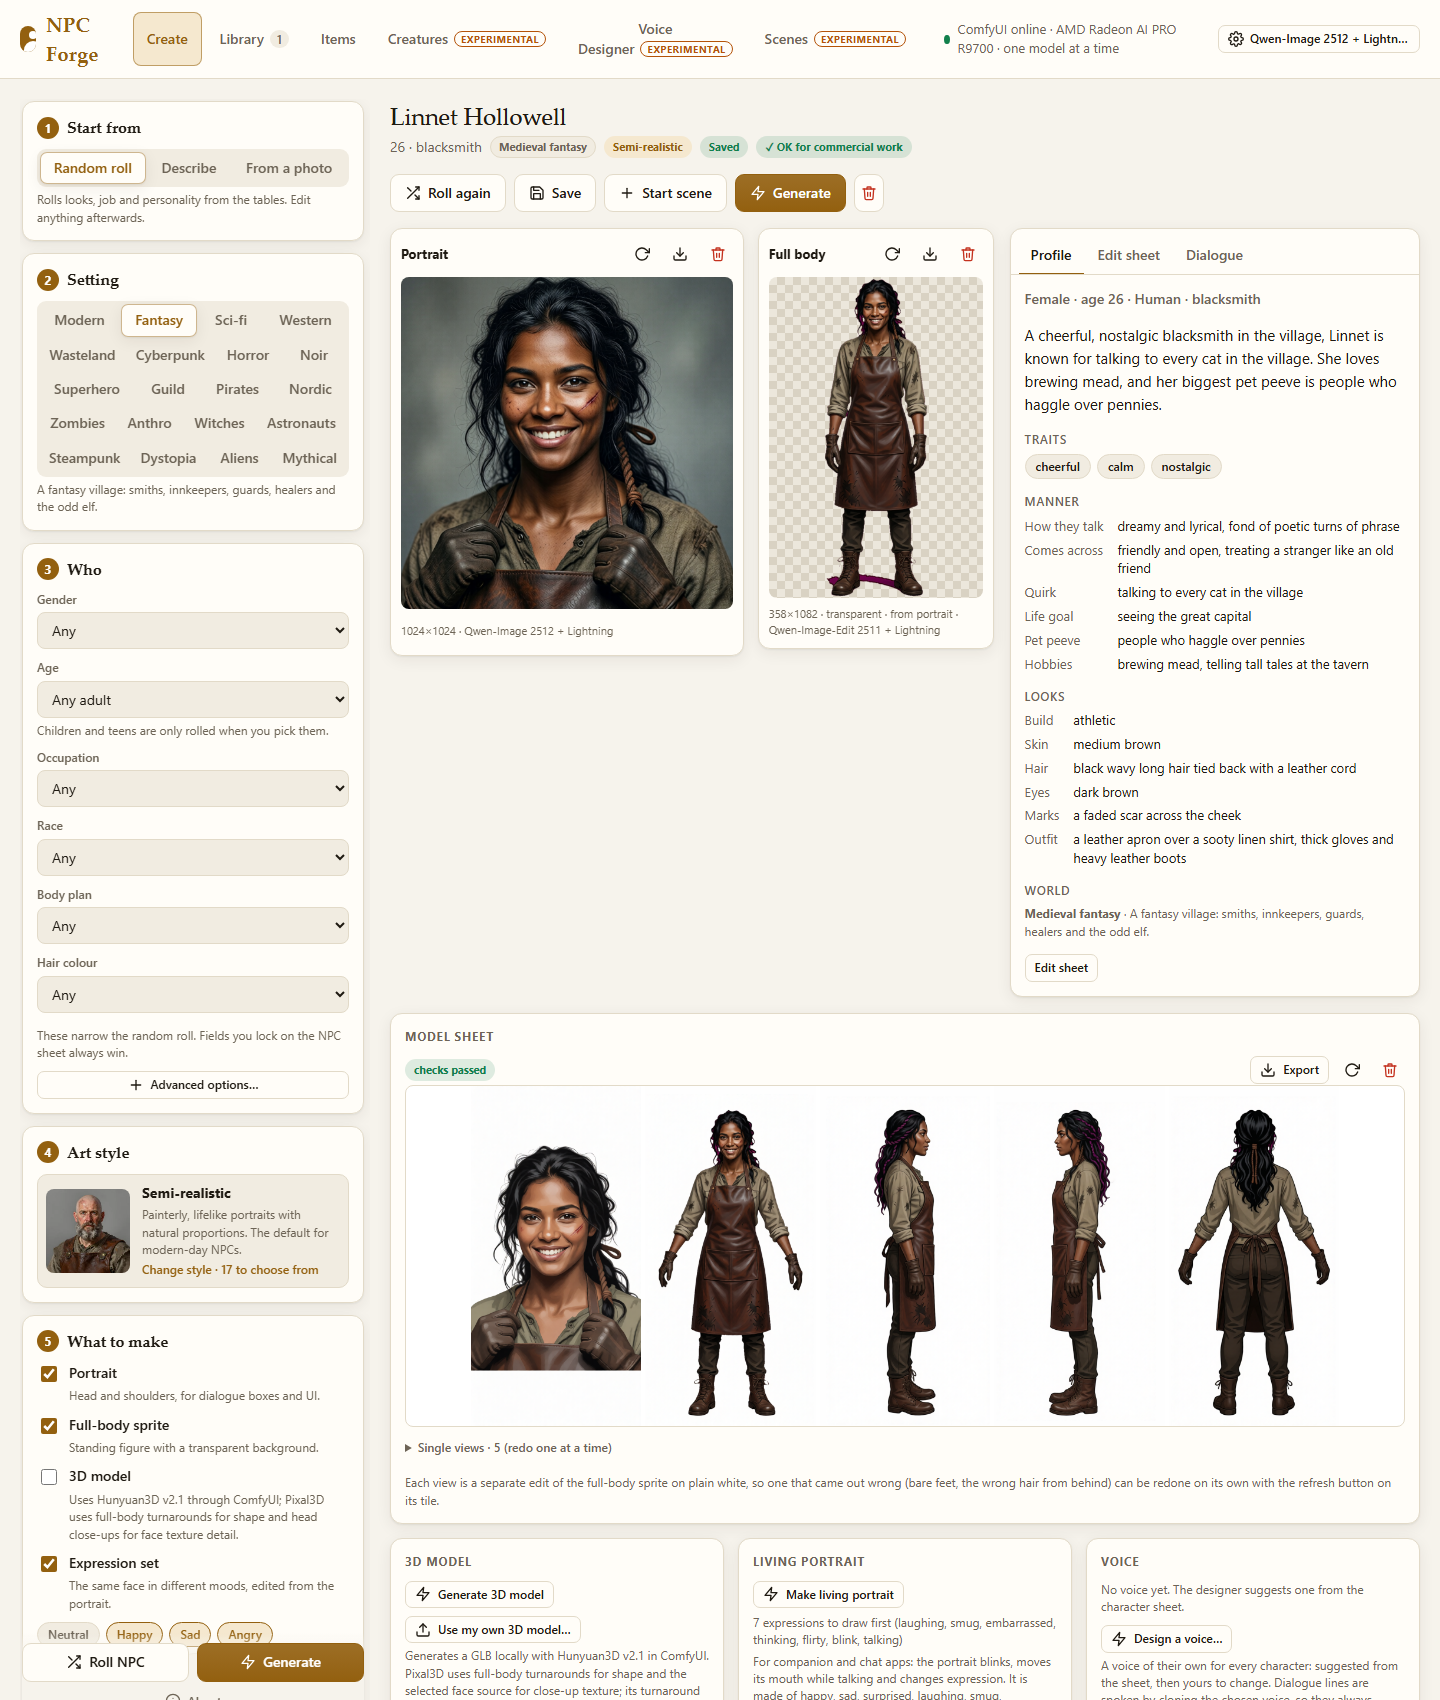
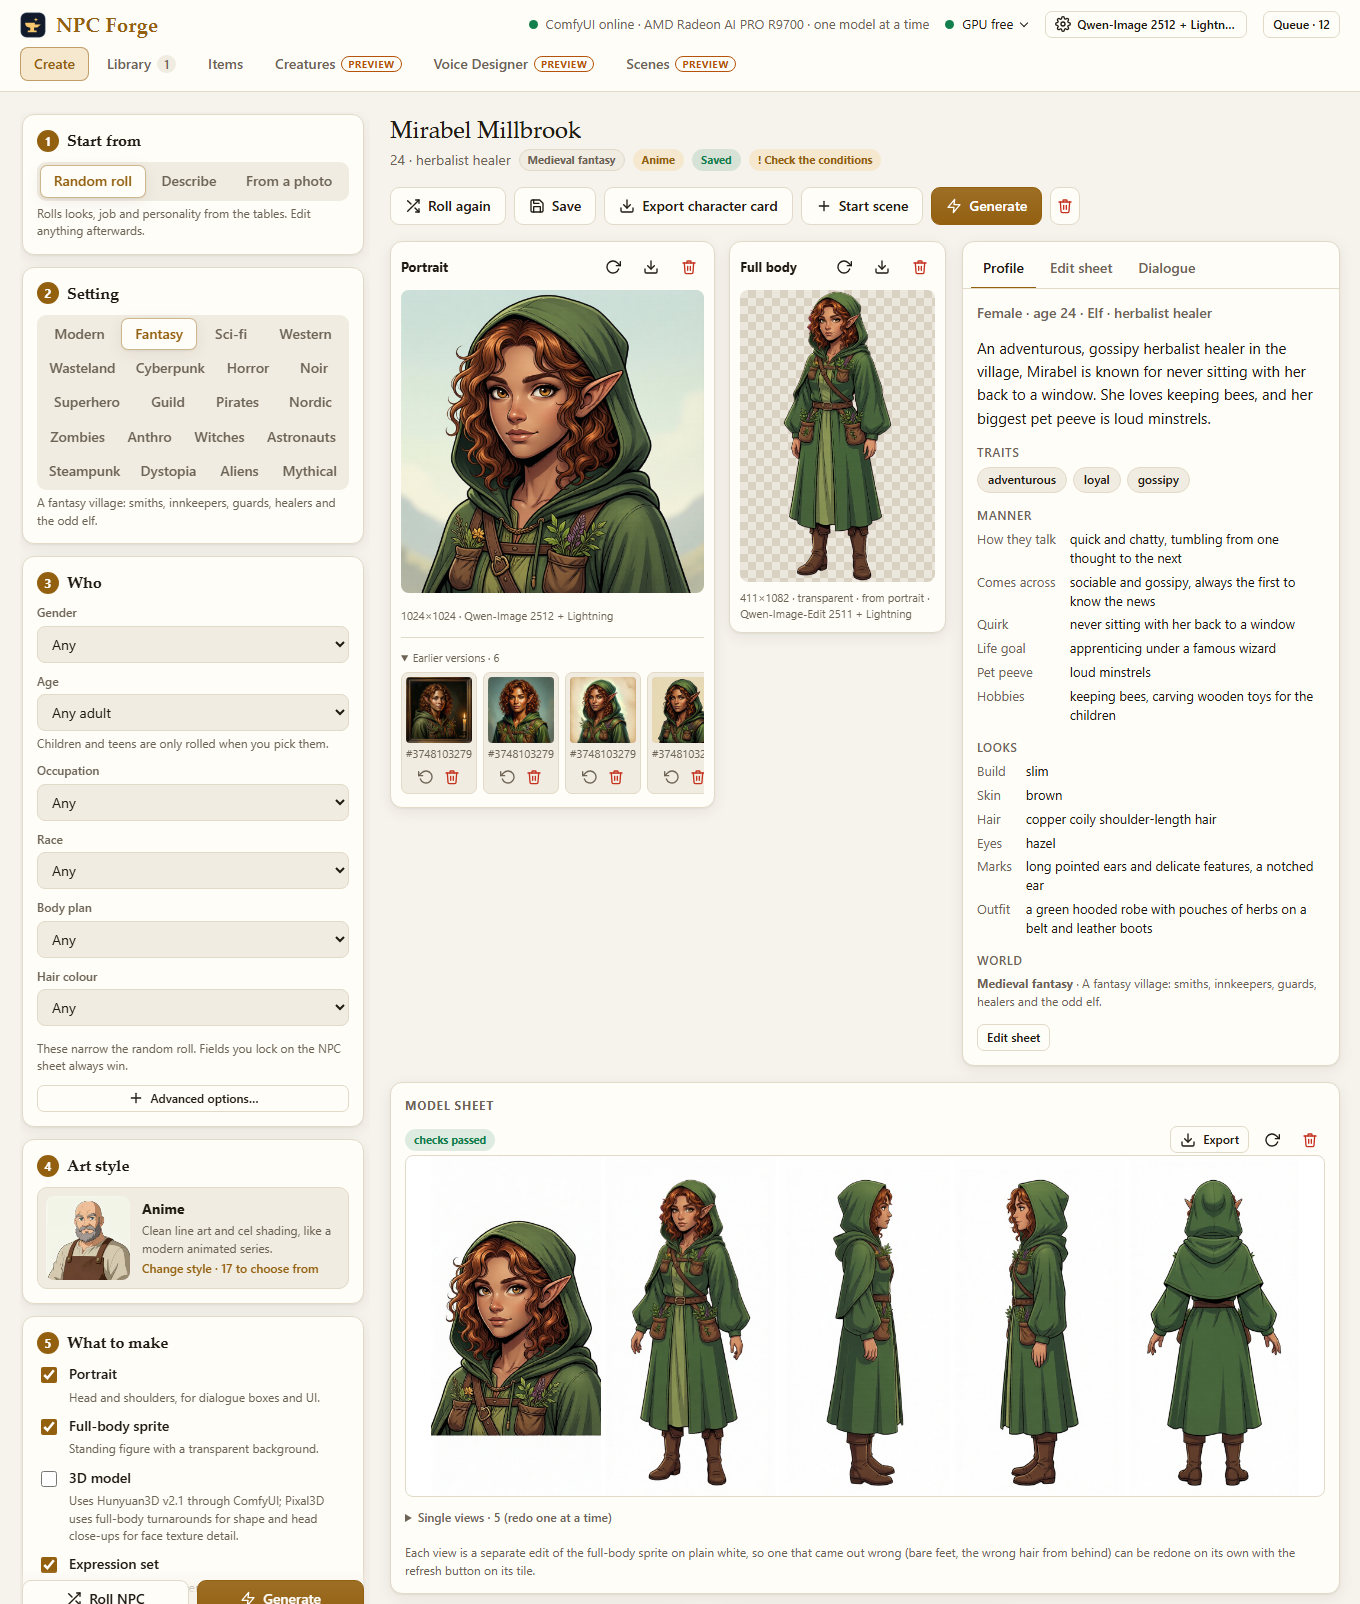
Add a gallery, and make its grid of art styles the README's top picture
Step 11. docs/gallery.md shows one rolled character, Mirabel Millbrook
(an elf herbalist; nobody real, no photo), made by NPC Forge on one PC
through its HTTP API, with the model that made each picture and how
long it took:

- all 17 art styles (Qwen-Image 2512, same seed), styles.jpg, which is
  now the README's top picture in place of the old Create page shot;
- the living portrait blinking, talking and smiling (Qwen-Image-Edit
  2511), living.gif;
- the Pixal3D model from the model sheet, turning, rendered in Blender
  from the GLB as saved, turntable.gif;
- the 16-bit pixel walk in four directions (Qwen-Image-Edit 2511),
  walk.gif, from the strips of the Godot export;
- that export (Godot 4 preset, 128 px, 48 colours) in a top-down Godot
  4.7 scene, walking a path round a herb garden, recorded with Godot's
  Movie Maker, godot.gif.

docs/images/character.png is a new screenshot of the same character in
the Library (Mage-Flow made the old one); create.png is gone (only the
README used it). NOTICE.md's sample-images paragraph names the models
that made the new pictures; no Mage-Flow picture is left in the
repository. The docs index lists the gallery.

The page says what did not work the first time: the anime walk (the
robe turned into leggings, poses missed), a pixel re-roll that came out
worse than the first walk (which is shown, with Forge's side-view glide
flag explained), one ComfyUI stall that Retry finished, the living
[…]

Changed region(s): [[0.0, 0.0, 0.9882, 1.0], [0.2779, 0.5923, 0.3397, 0.6546]]

diff --git a/docs/gallery.md b/docs/gallery.md
@@ -1,0 +1,88 @@
+# Gallery
+
+Everything on this page was made by NPC Forge on one PC (an AMD Radeon AI PRO R9700 with 32 GB), from one rolled
+character: nobody real, and no picture drawn from a photo. Each picture says which model made it. All of them use models
+whose licences allow commercial use, except the 3D model, whose licence adds conditions ([licences.md](licences.md)).
+
+The pictures here are made smaller for this page, and they do not carry the AI labels that Forge writes into its own files
+([responsible-use.md](responsible-use.md#label-what-you-make)), so this page says it instead: they were all made with AI
+models.
+
+## One character in every art style
+
+![Mirabel Millbrook, a rolled elf herbalist, drawn in all 17 art styles](images/gallery/styles.jpg)
+
+Mirabel Millbrook was rolled in the fantasy setting: an elf herbalist healer of 24, with copper coily hair and a green
+hooded robe with pouches of herbs. Her portrait was then drawn once in each of the 17 styles, with the same seed, by
+**Qwen-Image 2512** with its Lightning LoRA (Apache-2.0). Each took about 15 seconds once the model was loaded.
+
+## A living portrait
+
+![Mirabel's living portrait: she blinks, talks and smiles](images/gallery/living.gif)
+
+The living portrait is the portrait with only the eyes or the mouth changed, so nothing else flickers. Its frames are
+edits of the anime portrait by **Qwen-Image-Edit 2511** with its Lightning LoRA (Apache-2.0): ten expressions in under six
+minutes. A chat app shows them while a line plays; here the mouth follows a made-up rhythm, because a GIF has no sound.
+See [the living portrait](characters.md#living-portrait).
+
+## A model sheet and a 3D model
+
+![Mirabel's 3D model turning, rendered in Blender](images/gallery/turntable.gif)
+
+The model sheet (her front, both sides and her back, each an edit of the full-body sprite by Qwen-Image-Edit 2511) took
+under two minutes. **Pixal3D** made the textured 3D model from those views in 26 minutes, at its Medium setting. Pixal3D
+is MIT, but it reads Meta's DINOv3, whose licence adds conditions, so Forge rates the model "Allowed, with conditions".
+The turn was rendered in Blender from the GLB as Forge saved it, without any clean-up.
+
+## A walk cycle
+
+![Mirabel walking in four directions in 16-bit pixel art](images/gallery/walk.gif)
+
+The walk is in 16-bit pixel art. Her portrait and full-body sprite were drawn again in that style, then a four-frame walk
+facing down, right and up, every frame an edit of the sprite by **Qwen-Image-Edit 2511** (Apache-2.0); the left walk is
+the right one mirrored. The walk took six minutes. The GIF shows the frames of the Godot export below (128 pixels, shown
+twice the size) at the clip's own five frames a second.
+
+Forge flagged the side view, and it is right: in pixel art a walk is drawn from words rather than from a posed figure,
+and her feet hardly come together between steps (stride contrast 1.1; Forge flags anything under 1.35), so seen from the side
+she glides a little. [Animation](animation.md#which-styles-get-the-puppet) explains why pixel art is drawn from words.
+
+## In Godot
+
+![The exported walk in a Godot 4.7 scene: Mirabel walks a path round a herb garden](images/gallery/godot.gif)
+
+The same walk, exported with the **Godot 4** preset (a PNG strip for each direction and a SpriteFrames `.tres` with
+`walk_down`, `walk_left`, `walk_right` and `walk_up`), dropped into an empty Godot 4.7 project. The only code is a
+short script that walks her round the path and plays the animation that faces the way she goes, and a second one that
+draws the garden. Godot's Movie Maker recorded it at ten frames a second.
+
+The export is 128 pixels with 48 colours (`colors=48` on the export link). At the default 24 her skin came out olive:
+pixel-art frames share one palette for the whole clip, so the colours never shimmer, and her green robe took most of it.
+
+## The page
+
+![Mirabel in NPC Forge: portrait, full-body sprite, data sheet and model sheet](images/character.png)
+
+Mirabel open in the Library, in the anime style the living portrait and the 3D model were made from: the portrait by
+Qwen-Image 2512, the sprite and the model sheet by Qwen-Image-Edit 2511.
+
+## How these were made
+
+- A copy of NPC Forge with a library of its own, on the same PC as ComfyUI 0.37, through the [HTTP API](api.md): one
+  saved character, then one request for each picture or set, as the page sends them.
+- One model on the card at a time, standard quality throughout. No picture was touched up afterwards; FFmpeg put the GIFs
+  together and Blender rendered the turn.
+- What did not work the first time:
+  - The walk was first drawn in the anime style, from a posed figure. In the stride frames her robe turned into leggings,
+    and Forge flagged frames that missed their pose, so the walk was drawn again in pixel art.
+  - The pixel walk was re-rolled once, to try for a better side view. The re-roll came out worse (the front view's legs
+    barely moved, and bits of the background stayed at her feet), so the first walk is the one shown.
+  - Once, ComfyUI stopped answering while a reference view was drawing. Retry ran the job again from that step and kept
+    everything already drawn.
+  - The living portrait's blink and talking frames first showed nothing. Qwen-Image-Edit 2511 returns an expression as the
+    middle 992 pixels of the 1,024-pixel portrait, and Forge stretched it back, which moved her eyes and mouth by up to
+    16 pixels. Forge now puts such a frame back in the middle; the living portrait was assembled again from the same
+    edits, with nothing drawn again.
+  - The export's default palette, as above.
+
+[Back to the documentation](README.md)

diff --git a/README.md b/README.md
@@ -11,10 +11,13 @@ models running in your own ComfyUI. There is no cloud and nothing to train.
 > [NPC Forge](https://github.com/Fel101/fels-npc-forge) makes characters for games, and [Altera](https://github.com/Fel101/Altera)
 > lets you talk with them. Each one also works on its own.
 
-[Quick start](#quick-start) · [What your PC can make](#what-your-pc-can-make) · [Documentation](docs/README.md) ·
-[Responsible use](docs/responsible-use.md)
+[Quick start](#quick-start) · [What your PC can make](#what-your-pc-can-make) · [Gallery](docs/gallery.md) ·
+[Documentation](docs/README.md) · [Responsible use](docs/responsible-use.md)
 
-![The Create page: settings, who, art style and what to make](docs/images/create.png)
+![One rolled character, Mirabel Millbrook, drawn in all 17 art styles](docs/images/gallery/styles.jpg)
+
+*One rolled character in all 17 art styles, drawn by Qwen-Image 2512 (Apache-2.0) on one PC. The
+[gallery](docs/gallery.md) has her walk cycle, living portrait, 3D model and a Godot scene, with the model that made each.*
 
 ## What it makes
 
@@ -32,7 +35,7 @@ models running in your own ComfyUI. There is no cloud and nothing to train.
 Voice Lab), **Scenes** (two to six characters acting out a scene) and **Creatures** (non-humanoid creatures for a game). They
 work, but have been checked on fewer characters than the rest: see [what has been checked](docs/status.md).
 
-![A finished character: portrait, full-body sprite, data sheet and model sheet](docs/images/character.png)
+![A finished character in NPC Forge: portrait, full-body sprite, data sheet and model sheet](docs/images/character.png)
 
 ## What your PC can make
 

diff --git a/NOTICE.md b/NOTICE.md
@@ -166,9 +166,12 @@ The Trellis2 generator also uses two small ComfyUI nodes of NPC Forge's own (`np
 ## Sample images
 
 The art-style samples in `web/styles/` (one invented character drawn in every style, shown by the style picker) were made
-with **Z-Image Turbo** (Apache-2.0) through NPC Forge's own portrait prompts, not with Mage-Flow. Any other sample images in
-this repository were generated with Mage-Flow; they are examples of the tool's output and carry the uncertainty described
-above. Do not treat any of them as licensed artwork.
+with **Z-Image Turbo** (Apache-2.0) through NPC Forge's own portrait prompts, not with Mage-Flow. The pictures in
+`docs/images/gallery/` and `docs/images/character.png` (one rolled character, made by NPC Forge for
+[the gallery](docs/gallery.md)) were drawn with **Qwen-Image 2512** and edited with **Qwen-Image-Edit 2511**, both
+Apache-2.0 with their Lightning LoRAs; the turning 3D model was made by **Pixal3D** (MIT), which reads Meta's DINOv3, whose
+licence adds conditions. The gallery says which model made each picture. They are examples of the tool's output, made with
+AI models; do not treat any of them as licensed artwork.
 
 ## 3D preview
 

diff --git a/docs/README.md b/docs/README.md
@@ -68,6 +68,8 @@ Voices come from [Fel's Voice Lab](https://github.com/Fel101/fels-voice-lab).
 
 ## What was measured
 
+- [Gallery](gallery.md): one rolled character in every art style, a living portrait, a 3D model, a walk cycle
+  and a Godot scene, with the model that made each and how long it took.
 - [Status](status.md): what has and has not been checked, and the known limits.
 - [Which models may be used for work you sell](licences.md).
 - [Animation: what was tried and what worked](animation.md), and [model sheets](model-sheet.md).
